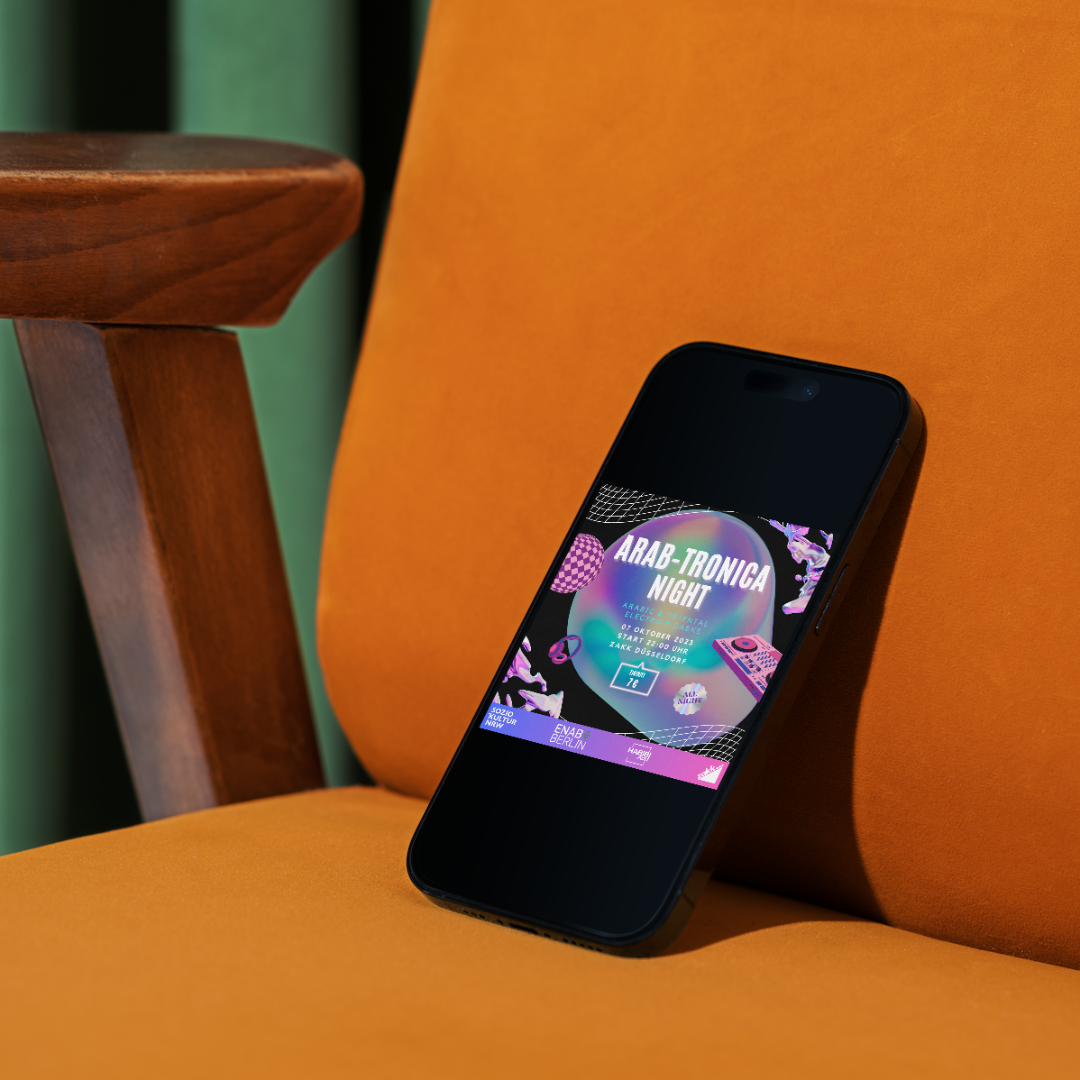
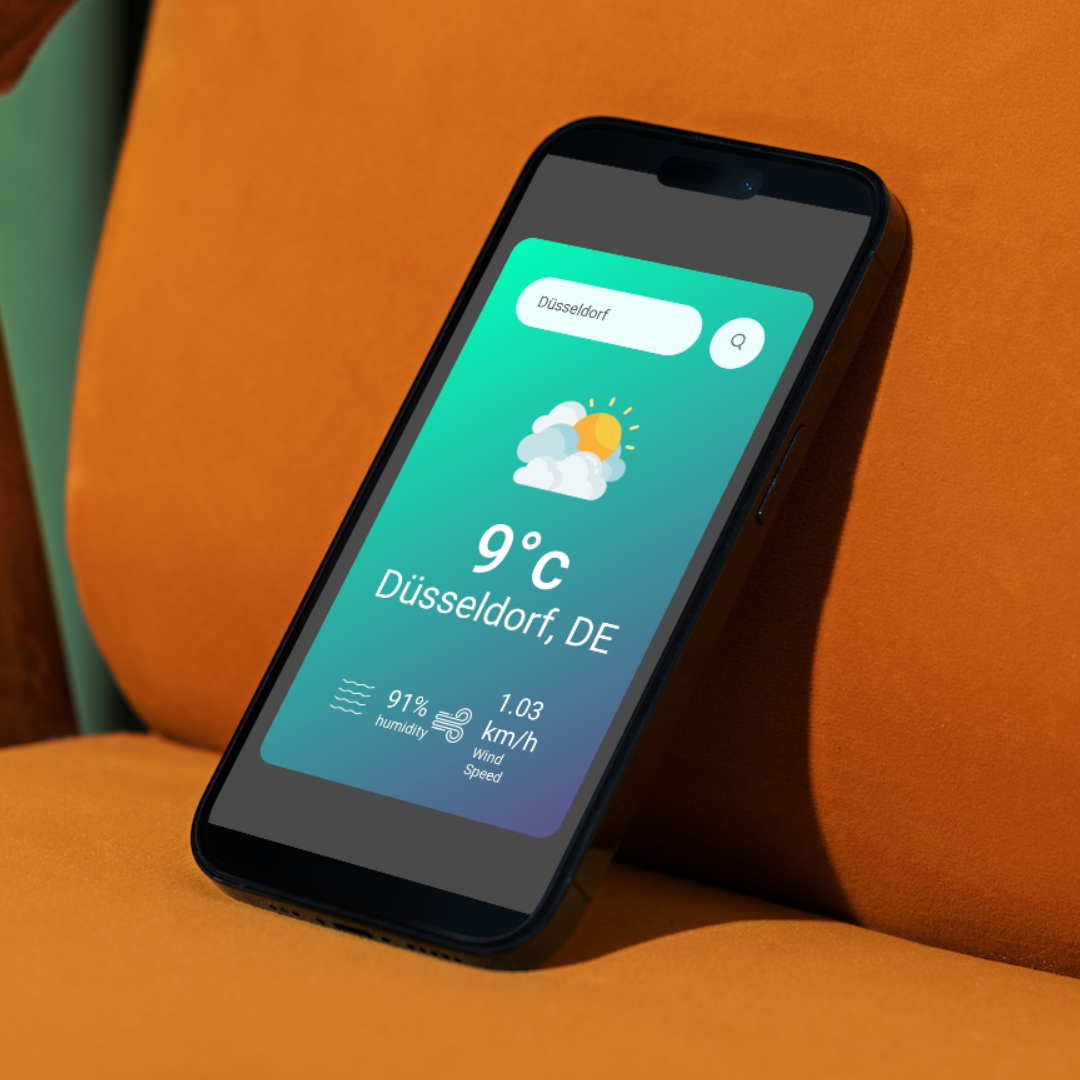
adding a weather app project

diff --git a/src/components/Projects.js b/src/components/Projects.js
@@ -39,12 +39,12 @@ function Projects () {
             <div className='cards'>
                 <div className='card-col'>
                     <img src={ProjetPhoto3} alt='Project 3'></img>
-                    <h4>Project Three</h4>
+                    <h4>Simple Weather App</h4>
                     <div className='project-btn'>
-                        <button className='cv-btn' onClick={() => window.open('./assets/lebenslauf-Shadi-Max.pdf')}>
+                        <button className='cv-btn' onClick={() => window.open('https://github.com/Shadi-Max/Weather-app')}>
                             Github
                         </button>
-                        <button className='cv-btn' onClick={() => window.open('./assets/lebenslauf-Shadi-Max.pdf')}>
+                        <button className='cv-btn' onClick={() => window.open('https://weather-app-shadi.netlify.app/')}>
                             Live Demo
                         </button>
                     </div>
